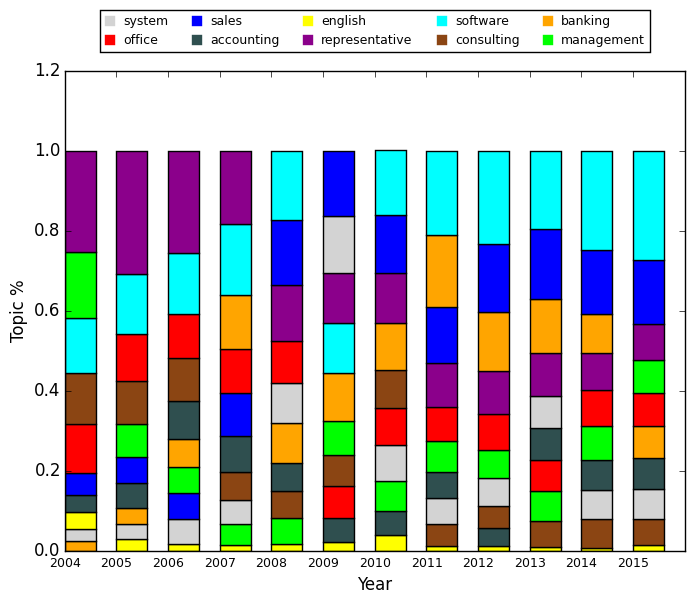
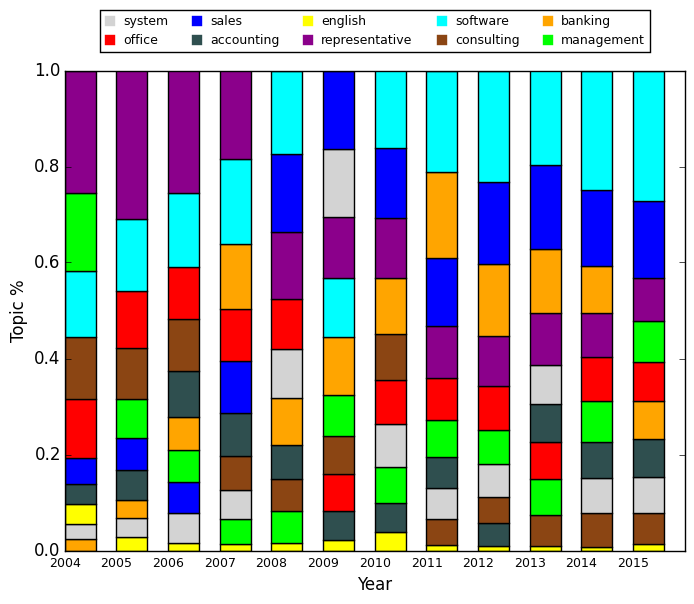
trend

diff --git a/src/job_resume.py b/src/job_resume.py
@@ -429,7 +429,7 @@ def trend():
     plt.xlabel("Year")
     plt.xticks(x_axis, years, fontsize=9)
     # plt.yticks(np.arange(0, 101, 10))
-    # plt.ylim([0, 101])
+    plt.ylim([0, 1.0])
     # Legends
     patches = []
     topics = []
